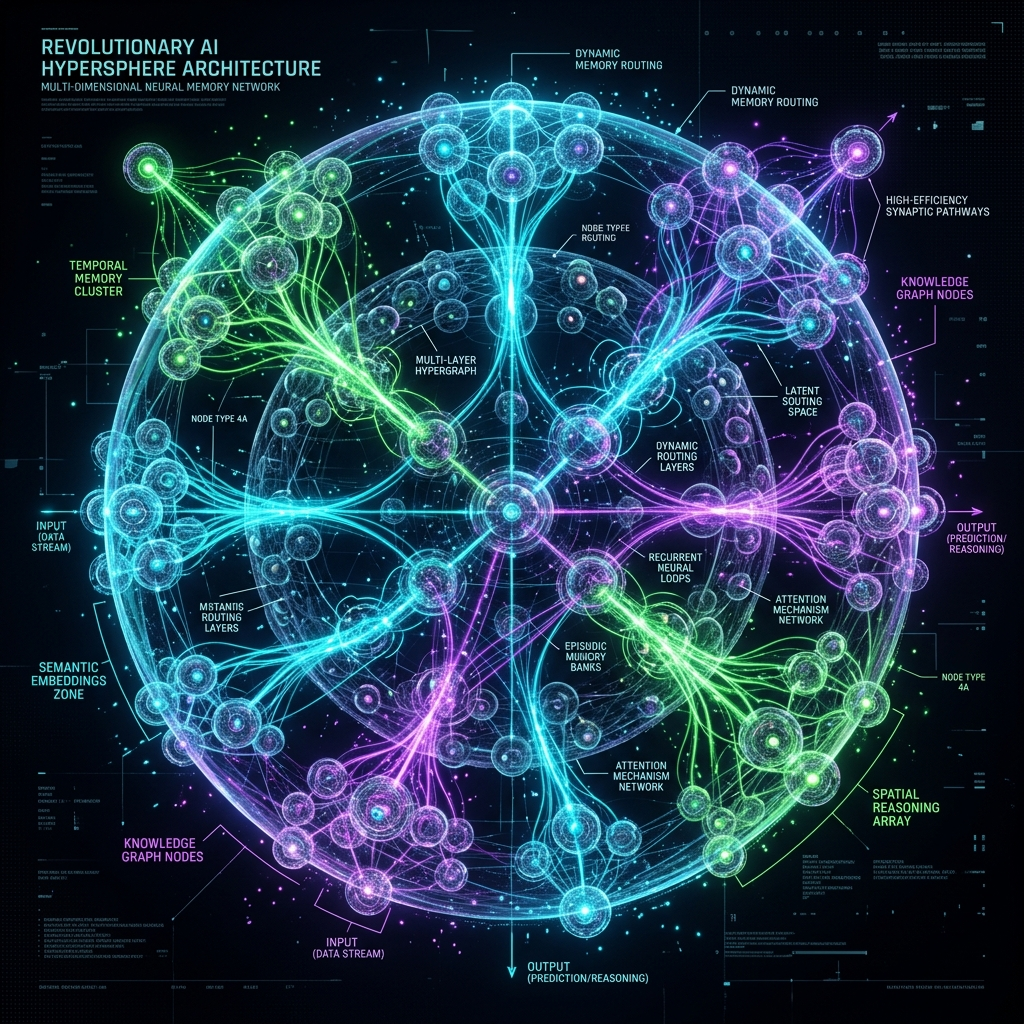
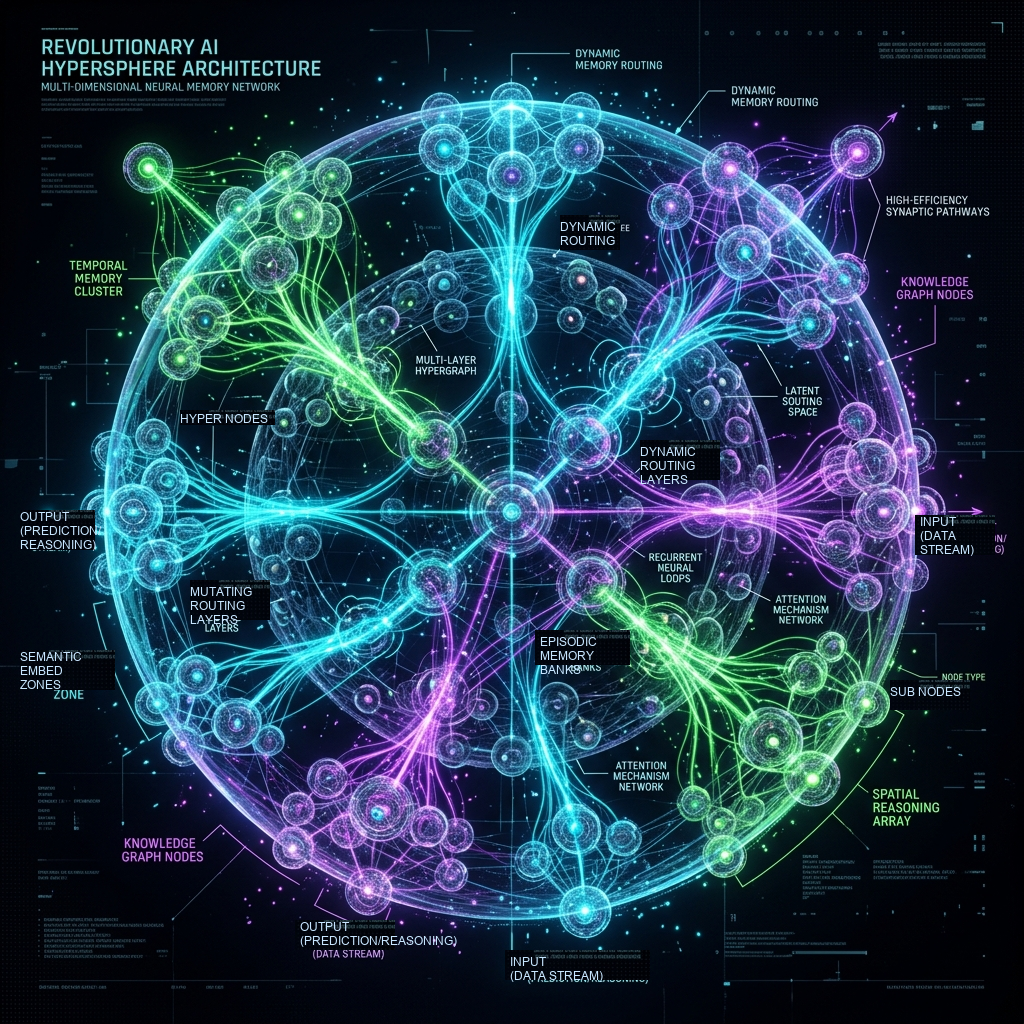
Fix typos in hyperspherical_nodes.png and update Click-to-Run feature with spinup command

diff --git a/docs/brochure.html b/docs/brochure.html
@@ -209,7 +209,7 @@
     <div class="content">
       <div style="margin-bottom: 2rem;">
         <h3 style="color: var(--green);">7. Click-to-Run Native Models & Dynamic Feature Borrowing</h3>
-        <p><strong>What it does:</strong> Our decomposed `.sfs` and `.sfs+` models run natively without an external program. Just double-click the model file to open and run it. The model dynamically scans its own directory and subdirectories (up to 3 folders deep) to automatically find, load, and "borrow" features from other SFS/SFS+ models. You just need the models in your library, and they spin up and share parts seamlessly.</p>
+        <p><strong>What it does:</strong> Our `.sfs` and `.sfs+` models have the engine built-in. Just double-click the model file and a quick dialog appears asking how you want to interact (TUI, CLI, etc.) with an option to save your default. Or, use the command line with our native command: <code>spinup "Golden Candy Spinner" /cli</code>. The model then dynamically scans its directory (up to 3 folders deep) to automatically find and "borrow" features from other models seamlessly.</p>
         <p><strong>Competitors:</strong> Ollama, LM Studio</p>
         <p><strong>Why Ours is Better:</strong> No heavy external applications or manual configuration. Models act as self-contained executables that autonomously collaborate with the rest of your local library.</p>
       </div>

diff --git a/docs/fix_image.py b/docs/fix_image.py
@@ -1,0 +1,68 @@
+from PIL import Image, ImageDraw, ImageFont
+
+def get_dark_patch(img, size):
+    # grab a dark patch from the top right corner
+    return img.crop((850, 50, 850 + size[0], 50 + size[1]))
+
+def replace_text(img, draw, font, bbox, text, text_pos):
+    # bbox = (x1, y1, x2, y2)
+    width = bbox[2] - bbox[0]
+    height = bbox[3] - bbox[1]
+    
+    # paste dark patch
+    patch = get_dark_patch(img, (width, height))
+    img.paste(patch, (bbox[0], bbox[1]))
+    
+    # Draw new text. Some text has multiple lines.
+    lines = text.split('\n')
+    y_offset = text_pos[1]
+    for line in lines:
+        draw.text((text_pos[0], y_offset), line, fill=(200, 230, 255), font=font)
+        y_offset += 14 # approx line height
+
+def fix_image():
+    img = Image.open('hyperspherical_nodes.png')
+    draw = ImageDraw.Draw(img)
+    
+    try:
+        font = ImageFont.truetype("C:\\Windows\\Fonts\\arial.ttf", 12)
+    except:
+        font = ImageFont.load_default()
+
+    # 1. DYNAMIC ROUTING LAYERS
+    replace_text(img, draw, font, (640, 440, 720, 480), "DYNAMIC\nROUTING\nLAYERS", (640, 445))
+    
+    # 2. MUTATING ROUTING LAYERS (was MSTANTIS)
+    replace_text(img, draw, font, (190, 580, 270, 620), "MUTATING\nROUTING\nLAYERS", (190, 585))
+    
+    # 3. EPISODIC MEMORY BANKS (was EPISNDIC)
+    replace_text(img, draw, font, (535, 630, 630, 665), "EPISODIC\nMEMORY\nBANKS", (540, 635))
+    
+    # 4. HYPER NODES (was NODE TYPE 4A - left)
+    replace_text(img, draw, font, (180, 410, 275, 425), "HYPER NODES", (180, 412))
+    
+    # 5. SUB NODES (was NODE TYPE 4A - right)
+    replace_text(img, draw, font, (890, 680, 970, 710), "SUB NODES", (890, 685))
+    
+    # 6. OUTPUT (PREDICTION/REASONING) (was INPUT (OATA STREAM) - left)
+    replace_text(img, draw, font, (20, 510, 95, 550), "OUTPUT\n(PREDICTION/\nREASONING)", (20, 510))
+    
+    # 7. INPUT (DATA STREAM) (was OUTPUT... - right)
+    replace_text(img, draw, font, (915, 515, 995, 555), "INPUT\n(DATA\nSTREAM)", (920, 515))
+    
+    # 8. OUTPUT (PREDICTION/REASONING) (was INPUT - bottom left)
+    replace_text(img, draw, font, (295, 920, 395, 950), "OUTPUT\n(PREDICTION/REASONING)", (300, 920))
+    
+    # 9. INPUT (DATA STREAM) (was OUTPUT - bottom center)
+    replace_text(img, draw, font, (505, 950, 650, 980), "INPUT\n(DATA STREAM)", (510, 955))
+
+    # 10. SEMANTIC EMBED ZONES (was SEMANTIC EMBEDDINGS ZONE)
+    replace_text(img, draw, font, (20, 650, 115, 690), "SEMANTIC\nEMBED\nZONES", (20, 650))
+    
+    # Fix the weird "NOBE TYPEE" at top right (560, 220)
+    replace_text(img, draw, font, (560, 215, 620, 250), "DYNAMIC\nROUTING", (560, 220))
+
+    img.save('hyperspherical_nodes.png')
+
+if __name__ == '__main__':
+    fix_image()

diff --git a/docs/draw_grid.py b/docs/draw_grid.py
@@ -1,0 +1,24 @@
+from PIL import Image, ImageDraw, ImageFont
+import sys
+
+def draw_grid():
+    img = Image.open('hyperspherical_nodes.png')
+    draw = ImageDraw.Draw(img)
+    width, height = img.size
+    
+    for x in range(0, width, 50):
+        color = (255, 0, 0) if x % 100 == 0 else (255, 255, 255)
+        draw.line([(x, 0), (x, height)], fill=color, width=1)
+        if x % 100 == 0:
+            draw.text((x+2, 2), str(x), fill=(255, 0, 0))
+            
+    for y in range(0, height, 50):
+        color = (255, 0, 0) if y % 100 == 0 else (255, 255, 255)
+        draw.line([(0, y), (width, y)], fill=color, width=1)
+        if y % 100 == 0:
+            draw.text((2, y+2), str(y), fill=(255, 0, 0))
+            
+    img.save('grid.png')
+
+if __name__ == '__main__':
+    draw_grid()